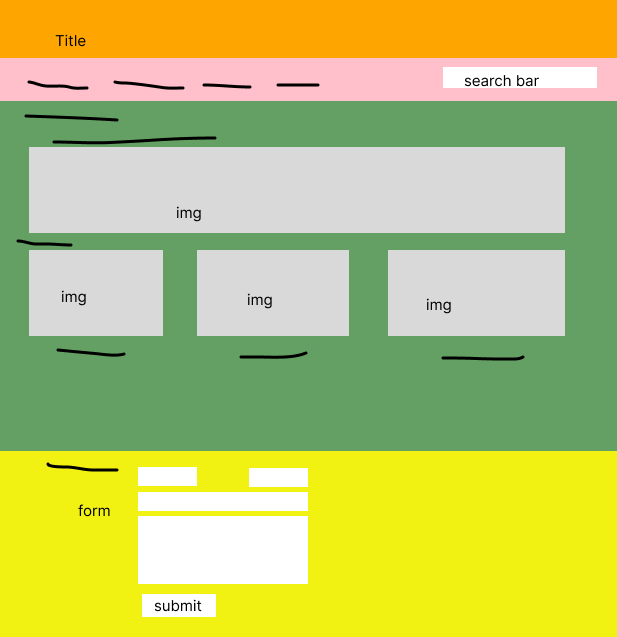
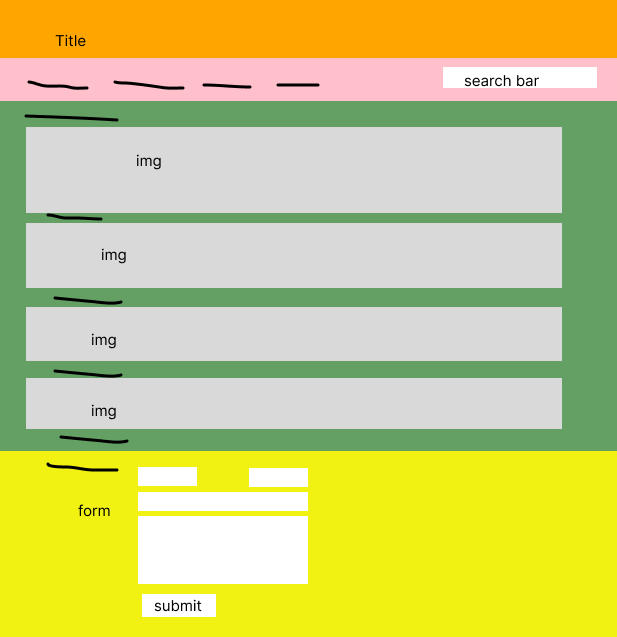
modify wireframe

Changed region(s): [[0.0308, 0.179, 0.9238, 0.7159]]

diff --git a/readme.md b/readme.md
@@ -5,7 +5,7 @@
 
 Going from top to bottom, the sections are:
 
-- **Orange**: the first part of a header, for title.
-- **Pink**: the second part of a header, including navigation links on the left and a search bar on the right.
-- **Green**: a section, to display recipes which holds breif and images.
-- **Yellow**: a footer, a form and a button to submit a new recipe which includes first name, last name, email and recipe details.
+- **Orange**: a component for title.
+- **Pink**: two components inside, including navigation links on the left and a search bar on the right.
+- **Green**: a main section, a component to display recipes which holds breif and images.
+- **Yellow**: a form component to submit a new recipe which includes first name, last name, email and recipe details.
